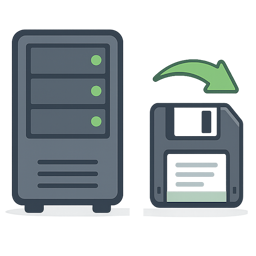
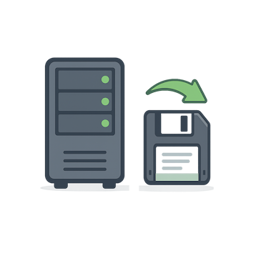
Release SavesCharactersOnStop 1.0.1

diff --git a/IronLabs.SavesCharactersOnStop/Properties/AssemblyInfo.cs b/IronLabs.SavesCharactersOnStop/Properties/AssemblyInfo.cs
@@ -11,5 +11,5 @@ using System.Runtime.InteropServices;
 [assembly: AssemblyCulture("")]
 [assembly: ComVisible(false)]
 [assembly: Guid("70BCF48B-1C23-4B2A-8A4F-F01CC21E3EC5")]
-[assembly: AssemblyVersion("1.0.0.*")]
-[assembly: AssemblyFileVersion("1.0.0")]
+[assembly: AssemblyVersion("1.0.1.*")]
+[assembly: AssemblyFileVersion("1.0.1")]

diff --git a/IronLabs.SavesCharactersOnStop/SavesCharactersOnStopPlugin.cs b/IronLabs.SavesCharactersOnStop/SavesCharactersOnStopPlugin.cs
@@ -12,7 +12,7 @@ namespace IronLabs.SavesCharactersOnStop
     {
         private const string PluginGuid = "IronLabs.SavesCharactersOnStop";
         private const string PluginName = "IronLabs.SavesCharactersOnStop";
-        private const string PluginVersion = "1.0.0";
+        private const string PluginVersion = "1.0.1";
         internal static ModLog Log { get; private set; }
         internal static GracefulShutdownCoordinator Coordinator { get; private set; }
         internal static SavesCharactersOnStopPlugin Instance { get; private set; }

diff --git a/IronLabs.SavesCharactersOnStop/README.Thunderstore.md b/IronLabs.SavesCharactersOnStop/README.Thunderstore.md
@@ -21,8 +21,6 @@ Install [ServerCharacters](https://thunderstore.io/c/valheim/p/Smoothbrain/Serve
 |---|---|
 | Yes | Yes |
 
-The server service must write its Valheim PID to `saves_characters_on_stop.drp` when stopping and wait at least 100 seconds before forcing termination. Copy the stop script and systemd configuration from the [GitHub README](https://github.com/end3rbyte/IronLabsMods/tree/main/IronLabs.SavesCharactersOnStop#service-configuration).
-
 Read the [full documentation](https://github.com/end3rbyte/IronLabsMods/blob/main/IronLabs.SavesCharactersOnStop/README.md) on GitHub.
 
 ## Contact